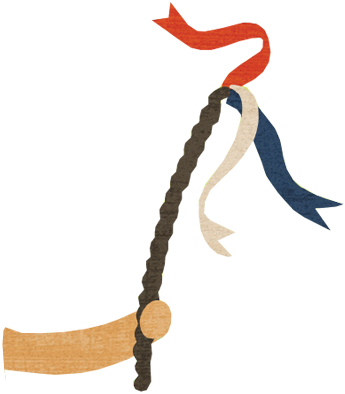
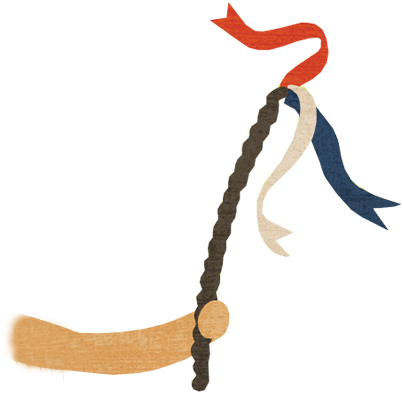
Changes player hands, edits positions of player, refactors.

Changed region(s): [[0.0, 0.0, 0.9855, 1.0]]

diff --git a/scss/components/_player.scss b/scss/components/_player.scss
@@ -7,34 +7,30 @@
   transition: top .3s ease, left .3s ease;
 
   &.position-0 {
-    top: 100%;
-    left: 50%;
-    margin-top: -$player-height;
-    margin-left: -($player-width / 2);
+    top: calc(100% - #{$player-height});
+    left: calc(50% - #{$player-width / 2});
   }
   &.position-5 {
+    @extend .position-0;
     top: 7em;
-    left: 50%;
-    margin-left: -($player-width / 2);
   }
+
   &.position-1 {
-    top: 12em;
-    margin-top: -$player-height;
-    left: 5.5em;
+    top: 4.5em;
+    left: $player-left;
   }
   &.position-2 {
-    top: 100%;
-    margin-top: -$player-height;
-    left: 5.5em;
+    @extend .position-1;
+    top: calc(101.5% - #{$player-height});
   }
   &.position-3 {
     @extend .position-2;
-    left: calc(100% - 9.5em);
+    left: calc(100% - #{$player-right});
     transform: rotateY(180deg);
   }
   &.position-4 {
     @extend .position-1;
-    left: calc(100% - 9.5em);
+    left: calc(100% - #{$player-right});
     transform: rotateY(180deg);
   }
 
@@ -56,10 +52,10 @@
 
   .player-hand {
     &.left {
-      width: 2em;
-      height: 2em;
-      top: 3em;
-      left: -.8em;
+      width: 2.75em;
+      height: 3em;
+      top: 2.3em;
+      left: -1.4em;
       background-image: url('../img/zajicek-ruka-leva.png');
       background-position: top center;
       background-size: 100%;
@@ -70,9 +66,9 @@
       @extend .left;
       width: 2.5em;
       height: 3em;
-      top: 2.7em;
+      top: 2.8em;
       left: unset;
-      right: -.95em;
+      right: -.85em;
       background-image: url('../img/zajicek-ruka-prava.png');
     }
   }

diff --git a/scss/components/_belts.scss b/scss/components/_belts.scss
@@ -15,29 +15,15 @@
 
   &.first,
   &.third {
+    left: 0;
     border-radius: 0 $belt-radius $belt-radius 0;
     transform: rotate($belts-tilt);
   }
 
   &.second,
   &.fourth {
+    right: 0;
     border-radius: $belt-radius 0 0 $belt-radius;
     transform: rotate(-$belts-tilt);
-  }
-
-  &.first {
-    left: 0;
-  }
-
-  &.second {
-    right: 0;
-  }
-
-  &.third {
-    left: 0;
-  }
-
-  &.fourth {
-    right: 0;
   }
 }

diff --git a/scss/_variables.scss b/scss/_variables.scss
@@ -1,6 +1,8 @@
 // size variables
 $player-width: 4em;
 $player-height: $player-width * 2;
+$player-right: 10em;
+$player-left: 6em;
 
 // position of belts and items variables
 $first-belts-top: 10em;

diff --git a/scss/_main.scss b/scss/_main.scss
@@ -6,7 +6,7 @@
   background: $main-color;
   border: 2px solid #000;
   border-radius: .3em;
-  //cursor: none;
+  cursor: none;
 
   > * {
     position: absolute;
